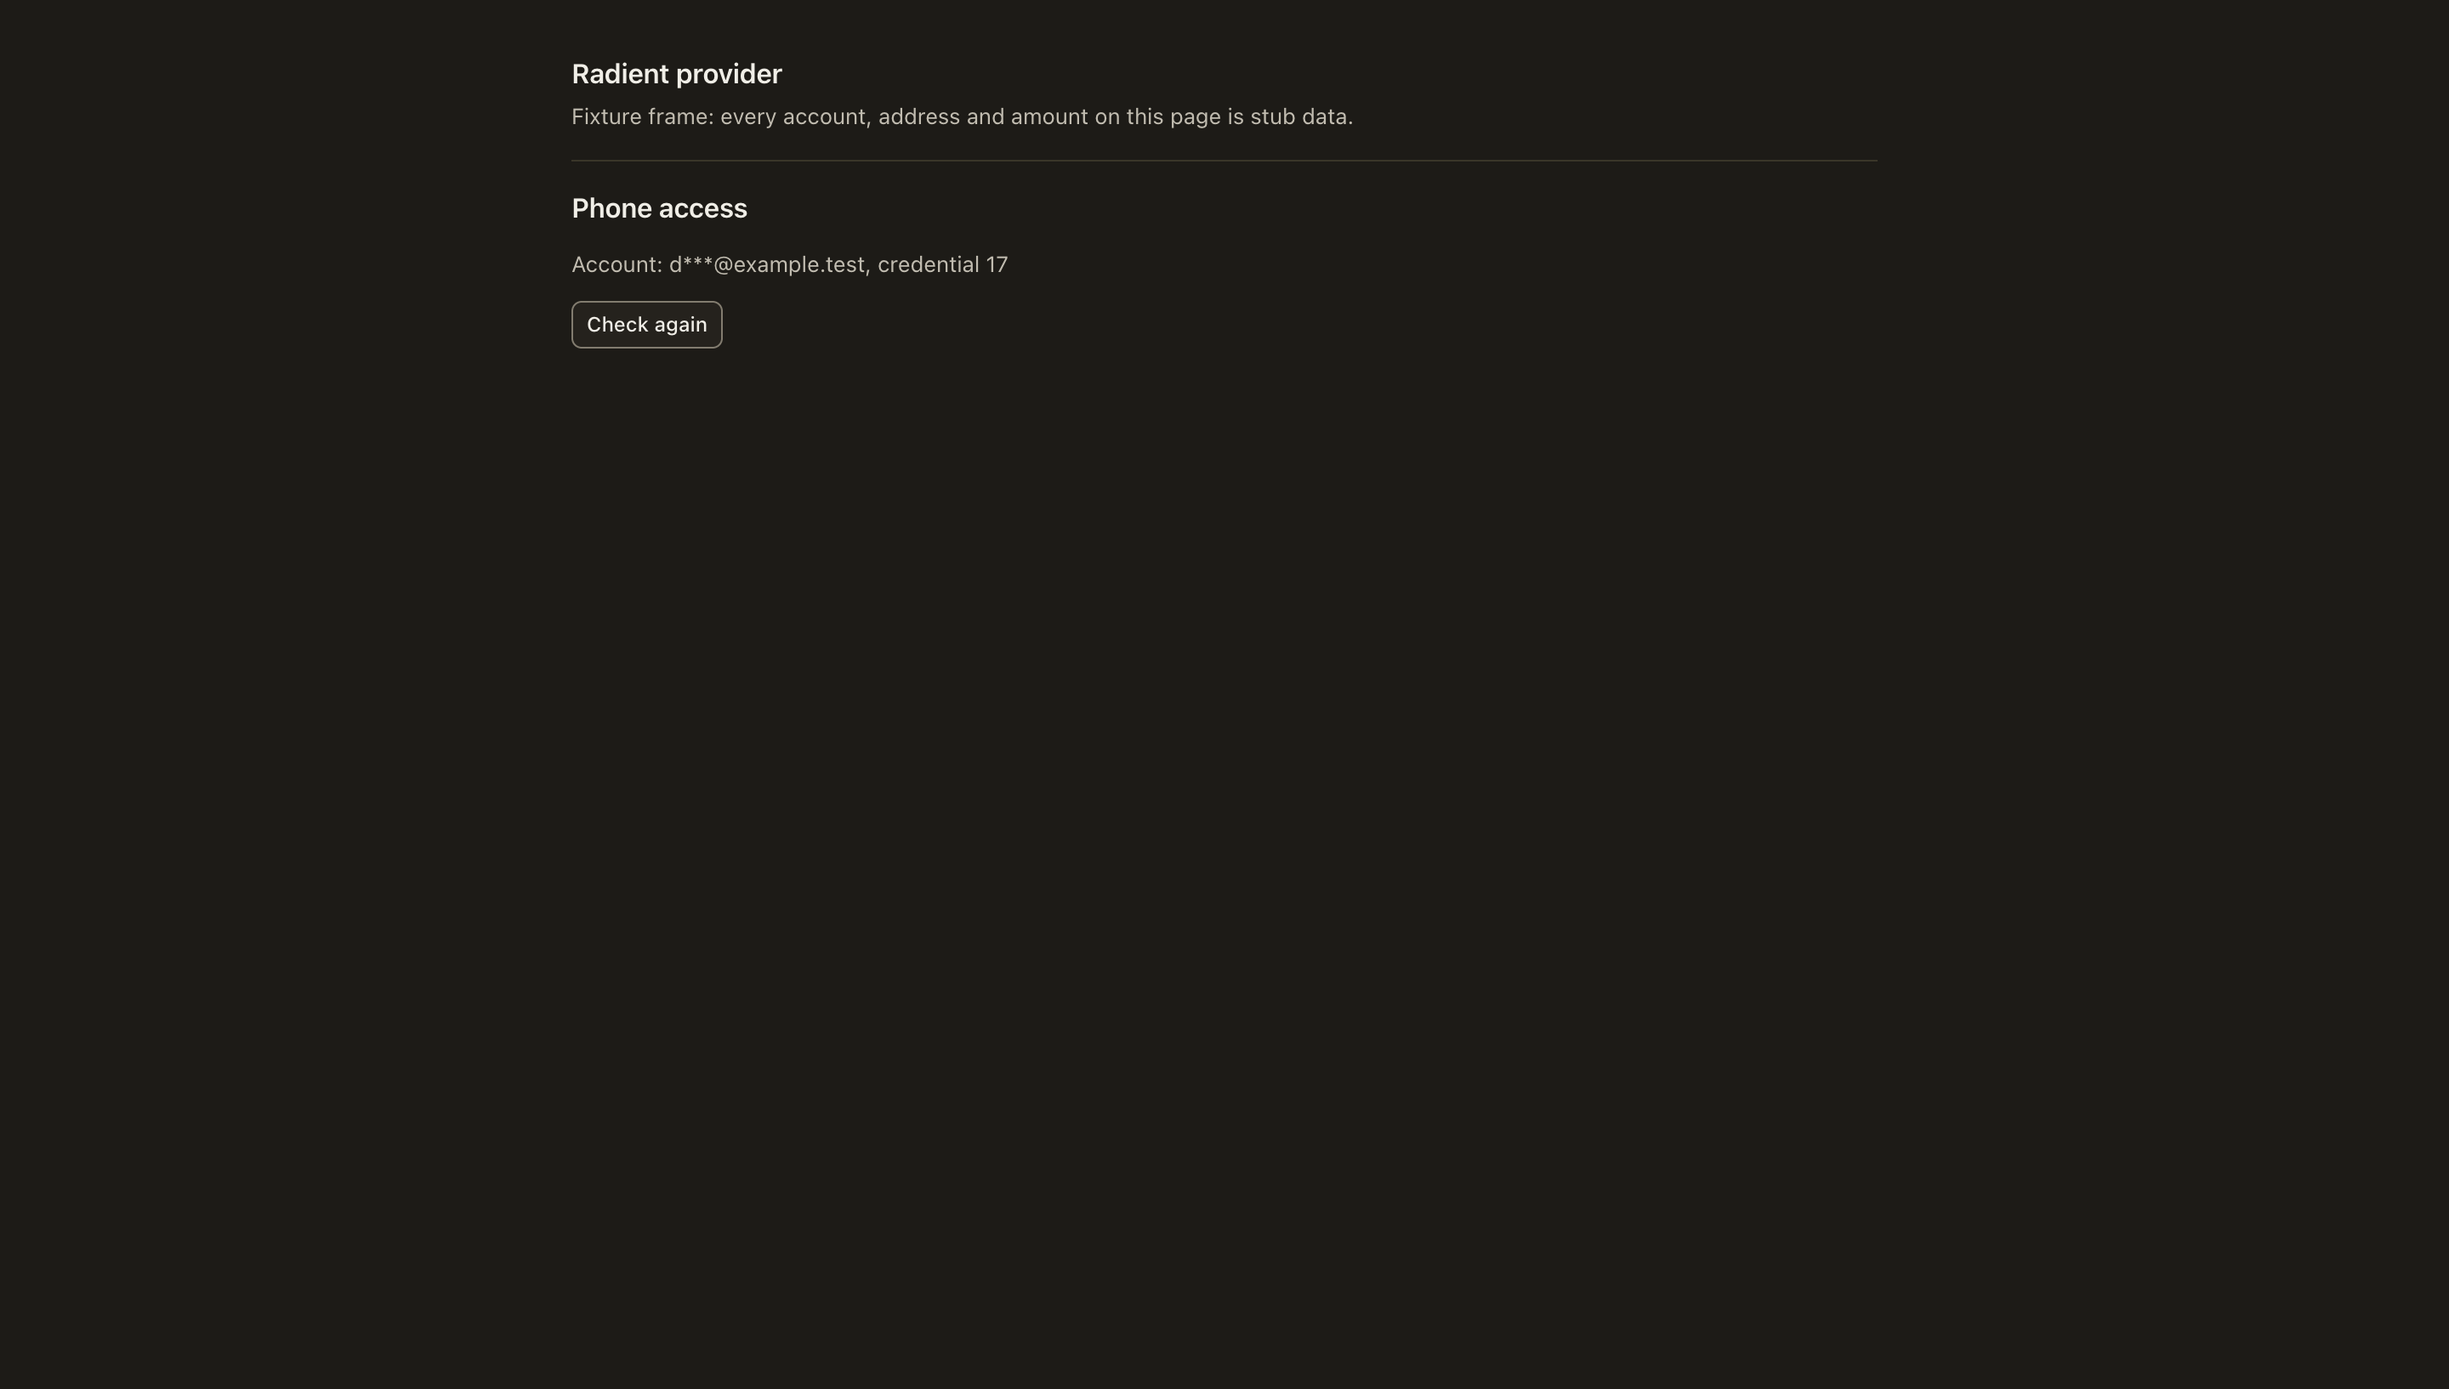
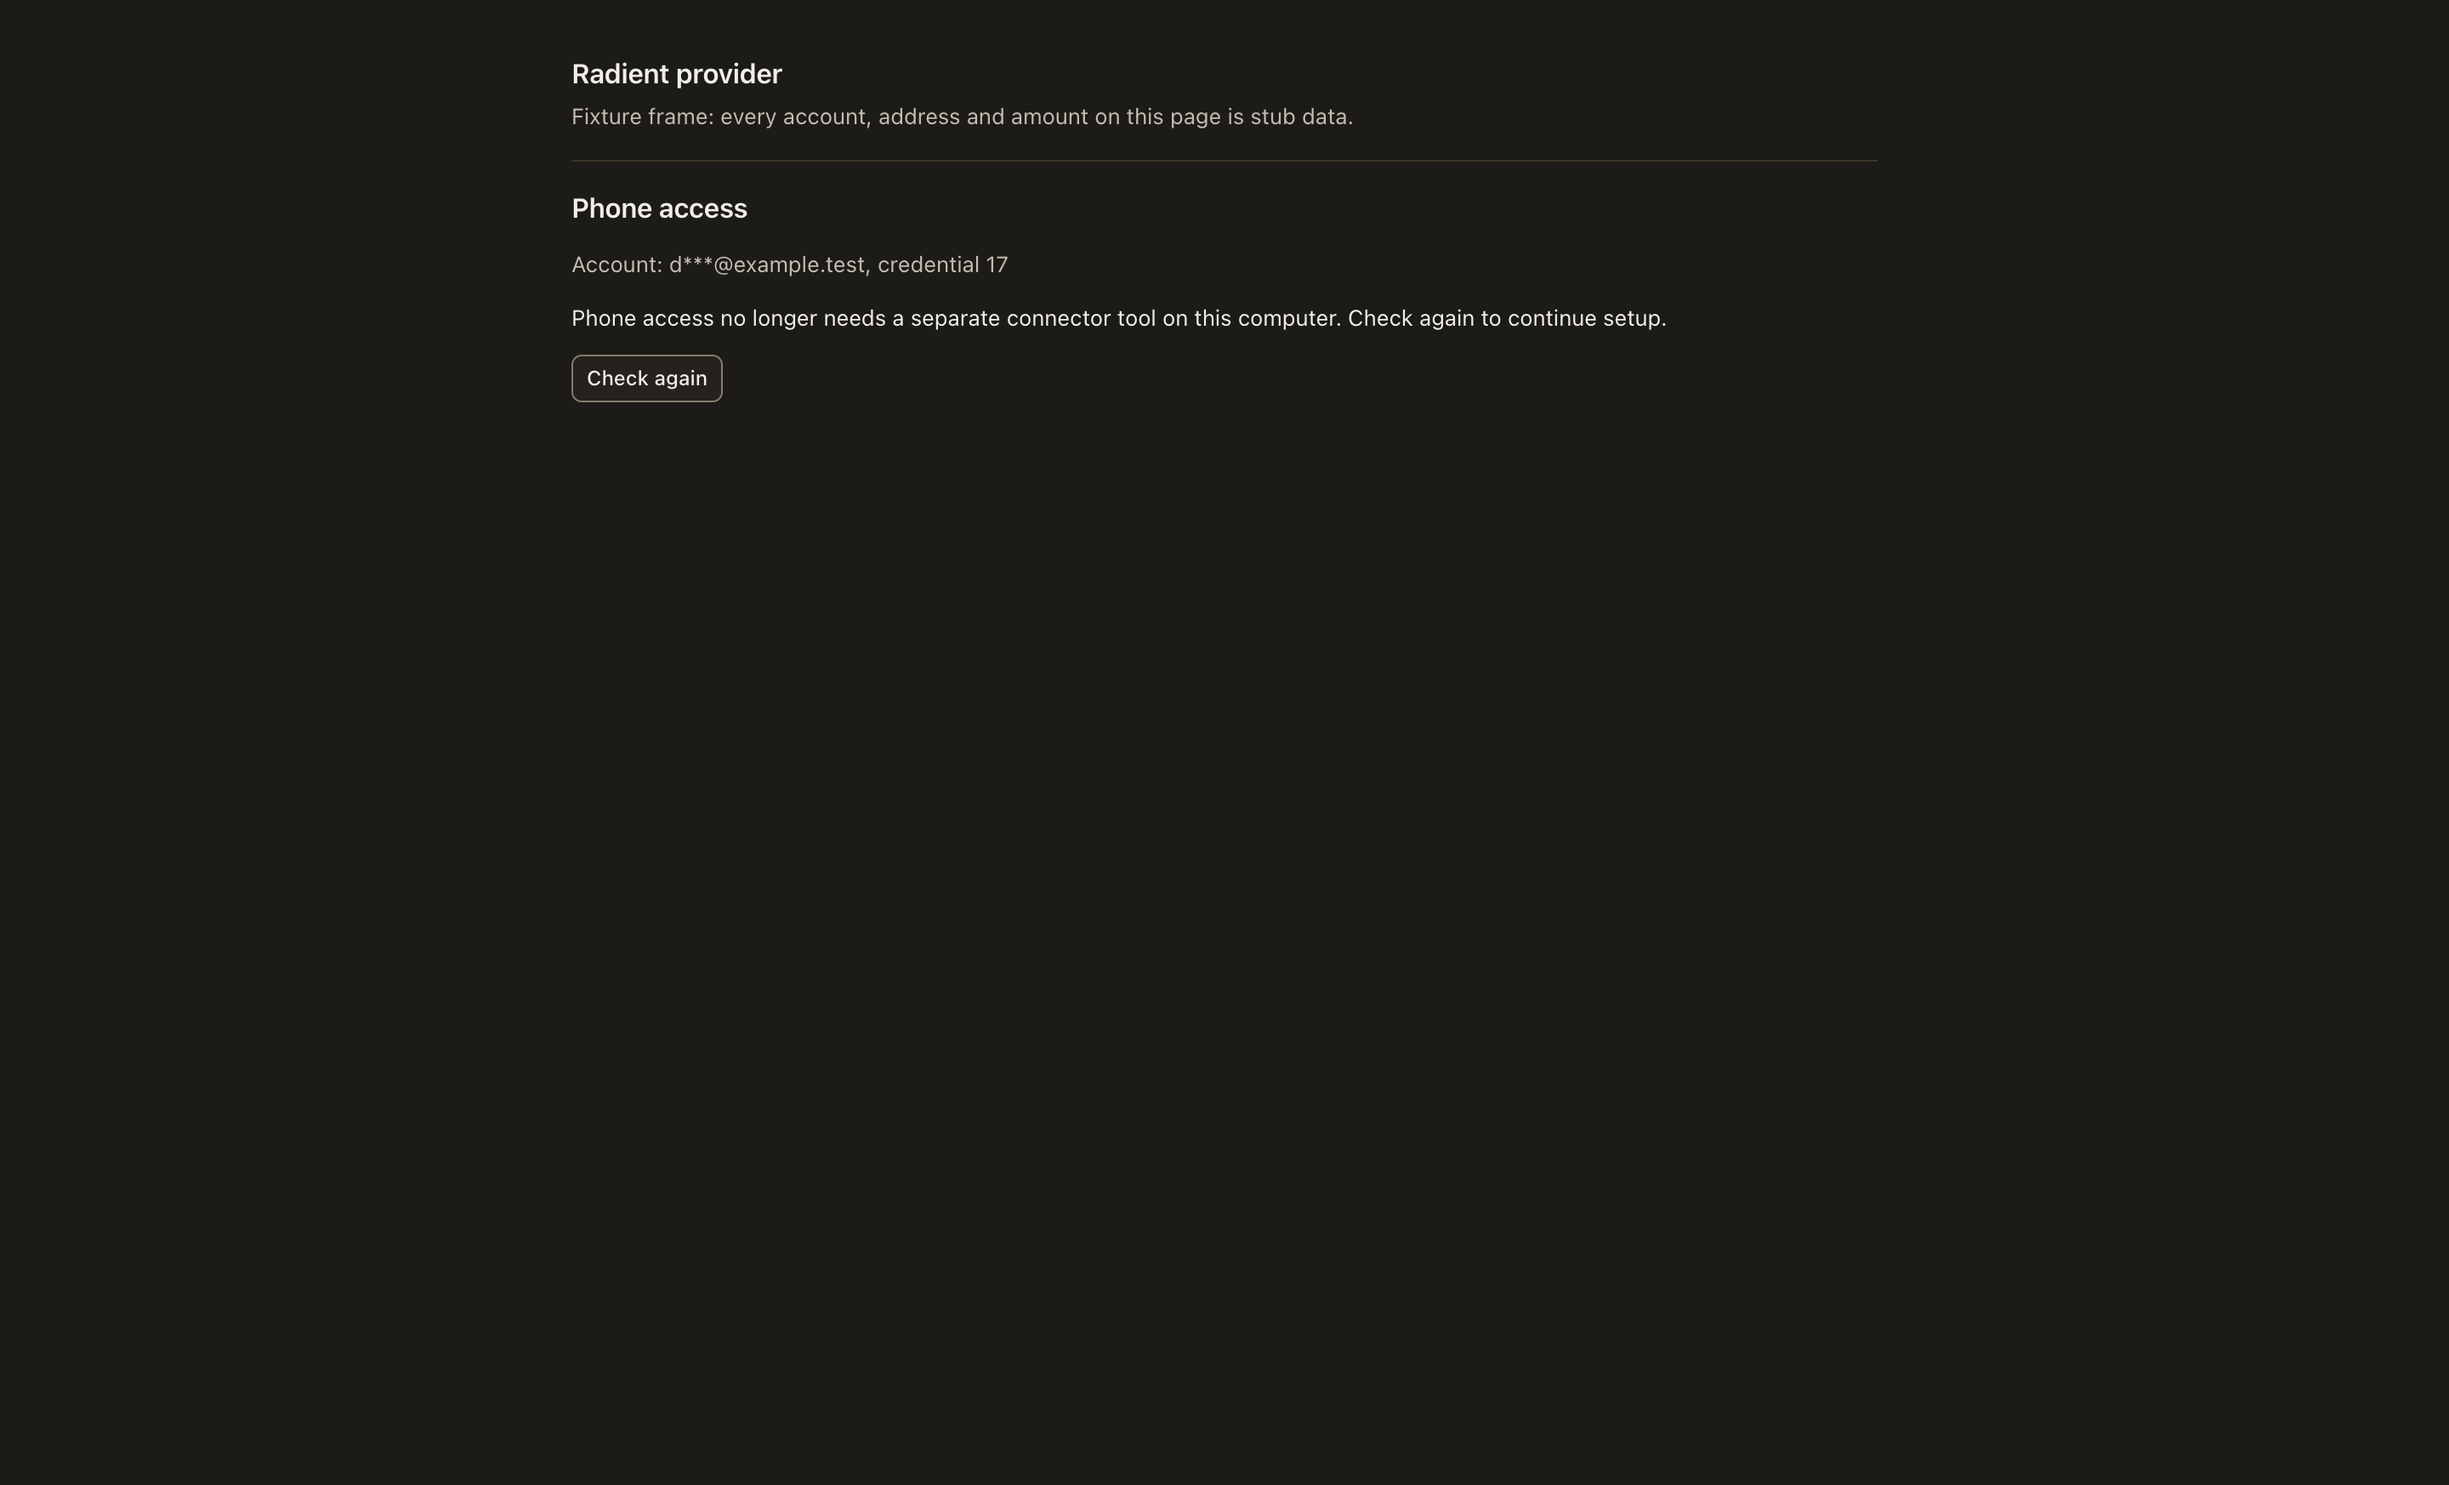
fix(phone): explain the skipped connector step and align transport docs
D1: the relay state renders a neutral UI-owned sentence (new key
ui.providers.phone.connector_not_needed, all 8 locales) instead of an
unexplained Check again. N1/N2: the transport field and skip-helper comments
now match local-operator #3765's _contract semantics.

Changed region(s): [[0.2188, 0.1248, 0.5938, 0.2809], [0.2188, 0.0312, 0.5625, 0.0936], [0.625, 0.1873, 0.6562, 0.2185]]

diff --git a/src/shared/desktop-contract.ts b/src/shared/desktop-contract.ts
@@ -6185,16 +6185,19 @@ export const phoneSetupResultSchema = z
 		reservation_outcome: z.string().optional(),
 		failure_stage: z.string().optional(),
 		/*
-		 * Which tunnel transport the Radient server offers this computer:
-		 * `"relay"` (the AWS-native tunnel relay; the connector runs inside `lop`
-		 * itself, so nothing has to be installed) or `"cloudflare"` (the legacy
-		 * Cloudflare Tunnel, which needs the `cloudflared` binary). OPTIONAL and a
+		 * Which connector carries this computer's tunnel, as the local backend
+		 * decides it (local-operator `desktop_tunnel_setup.py::_contract`): the
+		 * live gateway's answer when there is one, otherwise whether the relay is
+		 * offered AND not overridden by the `tunnel.transport: cloudflare` kill
+		 * switch. So the server can offer the relay while this still says
+		 * `cloudflare`. `"relay"` is the AWS-native tunnel relay, whose connector
+		 * runs inside `lop` (nothing to install); `"cloudflare"` is the legacy
+		 * Cloudflare Tunnel, which needs the `cloudflared` binary. OPTIONAL and a
 		 * plain string, for the same additive reasons as `step`: a backend that
 		 * predates the relay omits it, and an absent or unknown value keeps the
-		 * cloudflared behaviour exactly as it was. The name and values mirror the
-		 * server's `Tunnel.transport` (agent-server docs/TUNNEL_RELAY.md); the
-		 * local-operator setup route is expected to forward it beside `blocked_on`.
-		 * Only `phoneSetupSkipsCloudflared` reads it.
+		 * cloudflared behaviour exactly as it was. Values mirror the server's
+		 * `Tunnel.transport` (agent-server docs/TUNNEL_RELAY.md). Only
+		 * `phoneSetupSkipsCloudflared` reads it.
 		 */
 		transport: z.string().optional(),
 	})
@@ -6207,11 +6210,12 @@ export type PhoneSetupResult = z.infer<typeof phoneSetupResultSchema>;
  * True only when the backend says the server offers the relay transport AND the
  * answer is the cloudflared prerequisite. Under the relay, `lop` carries the
  * connector in-process, so telling a person to install `cloudflared` would send
- * them to install software the tunnel no longer uses. A relay-aware backend is
- * expected not to report that blocker at all; this is the renderer's half of the
- * same rule, so a backend that still reports it (a plan computed before the
- * server started advertising the relay, or a backend whose preflight lags its
- * transport field) does not put the instruction on screen.
+ * them to install software the tunnel no longer uses. A relay-aware backend
+ * derives `transport` and its cloudflared preflight from the same predicate, so
+ * it does not report that blocker beside `relay`; this is the renderer's half of
+ * the same rule, for the cases that can still pair them: a backend that sends
+ * `transport` without that coupling, or the race where the relay becomes
+ * available between the backend's preflight and the answer it builds.
  *
  * Keyed on `blocked_on` OR `remedy.kind` because those are the two machine fields
  * the block already switches on; never on the remedy sentence.

diff --git a/src/renderer/src/features/providers/phone-access-block.tsx b/src/renderer/src/features/providers/phone-access-block.tsx
@@ -288,9 +288,9 @@ const Blocked: FC<{
 }> = ({ result, setup, offerSignIn }) => {
 	const kind = result.remedy?.kind ?? null;
 	// The relay transport needs no `cloudflared`, so the install step is skipped:
-	// its sentence (which names the binary to install) is not shown, and only the
-	// neutral "Check again" remains, which asks the backend for a fresh plan that a
-	// relay-aware backend answers past this prerequisite. Without `transport` (an
+	// the backend's sentence (which names the binary to install) is replaced by a
+	// neutral UI sentence, and "Check again" asks the backend for a fresh plan that
+	// a relay-aware backend answers past this prerequisite. Without `transport` (an
 	// older backend) or with `cloudflare`, the step renders exactly as before.
 	const skipCloudflared = phoneSetupSkipsCloudflared(result);
 	const owner = result.credential_id;
@@ -370,7 +370,14 @@ const Blocked: FC<{
 					))}
 				</div>
 			) : null}
-			{result.remedy && !skipCloudflared ? (
+			{skipCloudflared ? (
+				// UI-owned, not the backend's: the backend sentence is the one being
+				// suppressed, and a blocked state with no sentence reads as a bug
+				// (design review D1). It never names the transport or the tool.
+				<p className="break-words text-body-sm text-ink">
+					{t("ui.providers.phone.connector_not_needed")}
+				</p>
+			) : result.remedy ? (
 				<p className="break-words text-body-sm text-ink">
 					{result.remedy.text}
 				</p>

diff --git a/src/i18n/keys.gen.ts b/src/i18n/keys.gen.ts
@@ -10129,6 +10129,7 @@ export type MessageParams = {
 	"ui.providers.phone.action.sign_in": undefined;
 	"ui.providers.phone.address_label": undefined;
 	"ui.providers.phone.choose_heading": undefined;
+	"ui.providers.phone.connector_not_needed": undefined;
 	"ui.providers.phone.consent": { amount: string };
 	"ui.providers.phone.failure.check": undefined;
 	"ui.providers.phone.failure.run": undefined;
